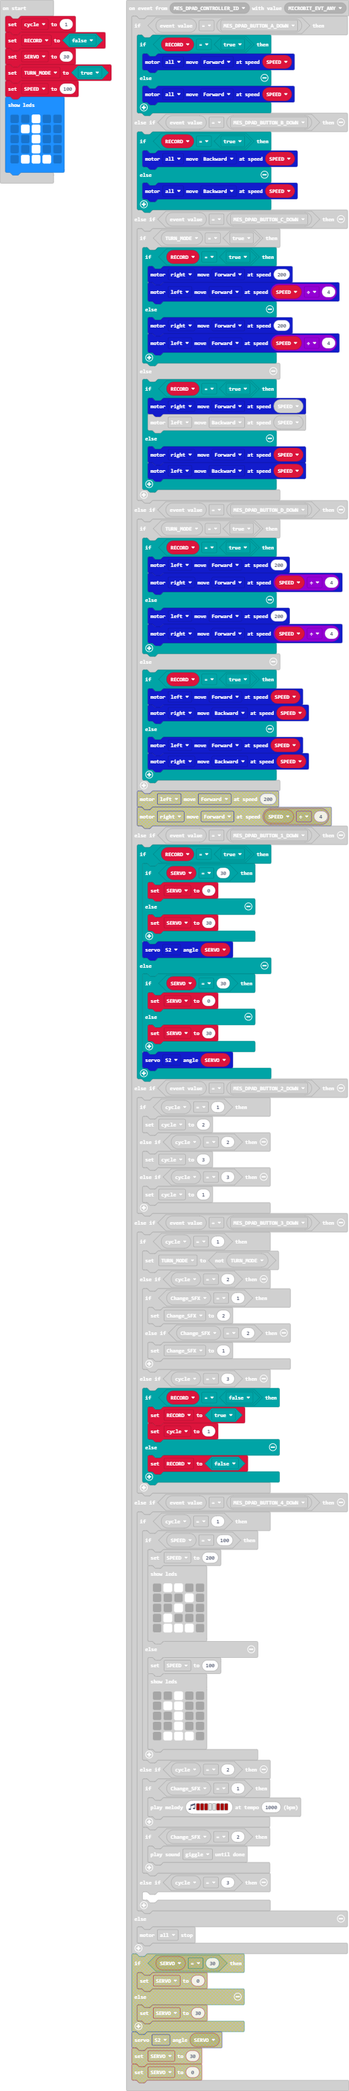
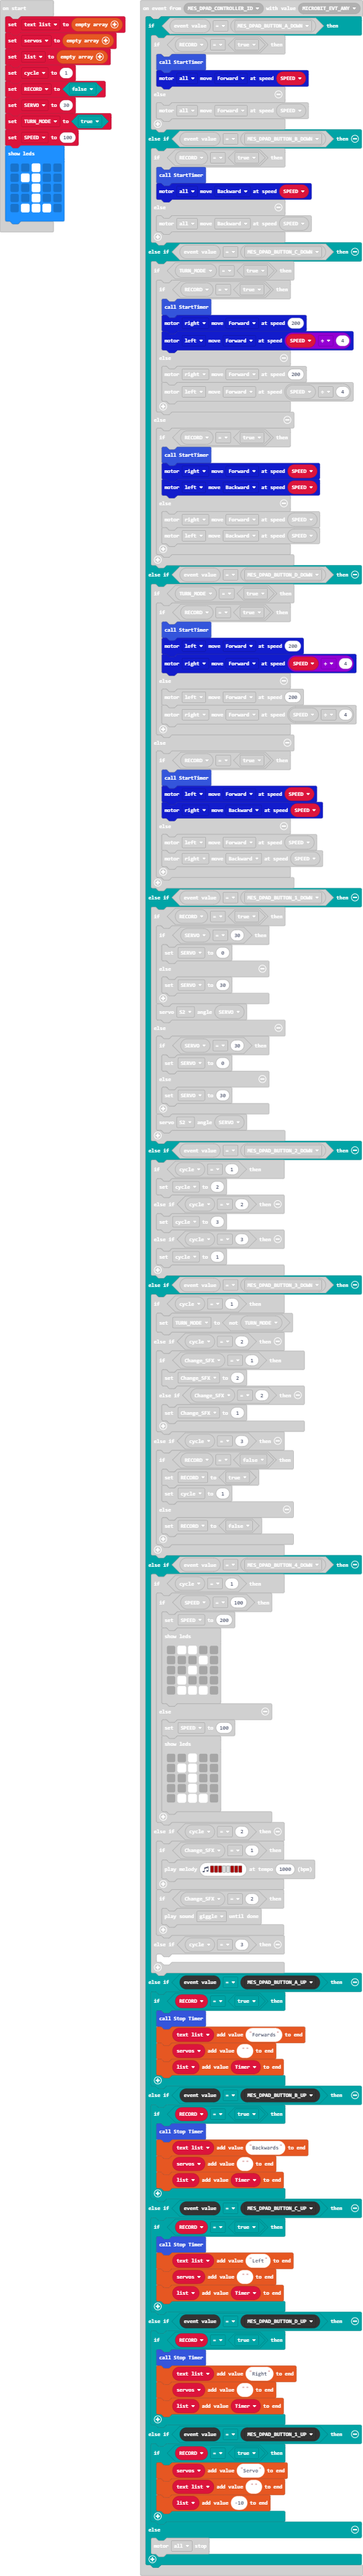
Update pxt.json, main.blocks, main.ts

diff --git a/main.ts b/main.ts
@@ -14,12 +14,14 @@ input.onButtonPressed(Button.B, function () {
 control.onEvent(EventBusSource.MES_DPAD_CONTROLLER_ID, EventBusValue.MICROBIT_EVT_ANY, function () {
     if (control.eventValue() == EventBusValue.MES_DPAD_BUTTON_A_DOWN) {
         if (RECORD == true) {
+            StartTimer()
             maqueen.motorRun(maqueen.Motors.All, maqueen.Dir.CW, SPEED)
         } else {
             maqueen.motorRun(maqueen.Motors.All, maqueen.Dir.CW, SPEED)
         }
     } else if (control.eventValue() == EventBusValue.MES_DPAD_BUTTON_B_DOWN) {
         if (RECORD == true) {
+            StartTimer()
             maqueen.motorRun(maqueen.Motors.All, maqueen.Dir.CCW, SPEED)
         } else {
             maqueen.motorRun(maqueen.Motors.All, maqueen.Dir.CCW, SPEED)
@@ -27,6 +29,7 @@ control.onEvent(EventBusSource.MES_DPAD_CONTROLLER_ID, EventBusValue.MICROBIT_EV
     } else if (control.eventValue() == EventBusValue.MES_DPAD_BUTTON_C_DOWN) {
         if (TURN_MODE == true) {
             if (RECORD == true) {
+                StartTimer()
                 maqueen.motorRun(maqueen.Motors.M2, maqueen.Dir.CW, 200)
                 maqueen.motorRun(maqueen.Motors.M1, maqueen.Dir.CW, SPEED / 4)
             } else {
@@ -35,6 +38,7 @@ control.onEvent(EventBusSource.MES_DPAD_CONTROLLER_ID, EventBusValue.MICROBIT_EV
             }
         } else {
             if (RECORD == true) {
+                StartTimer()
                 maqueen.motorRun(maqueen.Motors.M2, maqueen.Dir.CW, SPEED)
                 maqueen.motorRun(maqueen.Motors.M1, maqueen.Dir.CCW, SPEED)
             } else {
@@ -45,6 +49,7 @@ control.onEvent(EventBusSource.MES_DPAD_CONTROLLER_ID, EventBusValue.MICROBIT_EV
     } else if (control.eventValue() == EventBusValue.MES_DPAD_BUTTON_D_DOWN) {
         if (TURN_MODE == true) {
             if (RECORD == true) {
+                StartTimer()
                 maqueen.motorRun(maqueen.Motors.M1, maqueen.Dir.CW, 200)
                 maqueen.motorRun(maqueen.Motors.M2, maqueen.Dir.CW, SPEED / 4)
             } else {
@@ -53,6 +58,7 @@ control.onEvent(EventBusSource.MES_DPAD_CONTROLLER_ID, EventBusValue.MICROBIT_EV
             }
         } else {
             if (RECORD == true) {
+                StartTimer()
                 maqueen.motorRun(maqueen.Motors.M1, maqueen.Dir.CW, SPEED)
                 maqueen.motorRun(maqueen.Motors.M2, maqueen.Dir.CCW, SPEED)
             } else {
@@ -132,6 +138,40 @@ control.onEvent(EventBusSource.MES_DPAD_CONTROLLER_ID, EventBusValue.MICROBIT_EV
         } else if (cycle == 3) {
         	
         }
+    } else if (control.eventValue() == EventBusValue.MES_DPAD_BUTTON_A_UP) {
+        if (RECORD == true) {
+            Stop_Timer()
+            text_list.push("Forwards")
+            servos.push("")
+            list.push(Timer)
+        }
+    } else if (control.eventValue() == EventBusValue.MES_DPAD_BUTTON_B_UP) {
+        if (RECORD == true) {
+            Stop_Timer()
+            text_list.push("Backwards")
+            servos.push("")
+            list.push(Timer)
+        }
+    } else if (control.eventValue() == EventBusValue.MES_DPAD_BUTTON_C_UP) {
+        if (RECORD == true) {
+            Stop_Timer()
+            text_list.push("Left")
+            servos.push("")
+            list.push(Timer)
+        }
+    } else if (control.eventValue() == EventBusValue.MES_DPAD_BUTTON_D_UP) {
+        if (RECORD == true) {
+            Stop_Timer()
+            text_list.push("Right")
+            servos.push("")
+            list.push(Timer)
+        }
+    } else if (control.eventValue() == EventBusValue.MES_DPAD_BUTTON_1_UP) {
+        if (RECORD == true) {
+            servos.push("Servo")
+            text_list.push("")
+            list.push(-10)
+        }
     } else {
         maqueen.motorStop(maqueen.Motors.All)
     }
@@ -148,6 +188,12 @@ let TURN_MODE = false
 let SERVO = 0
 let RECORD = false
 let cycle = 0
+let list: number[] = []
+let servos: string[] = []
+let text_list: string[] = []
+text_list = []
+servos = []
+list = []
 cycle = 1
 RECORD = false
 SERVO = 30
